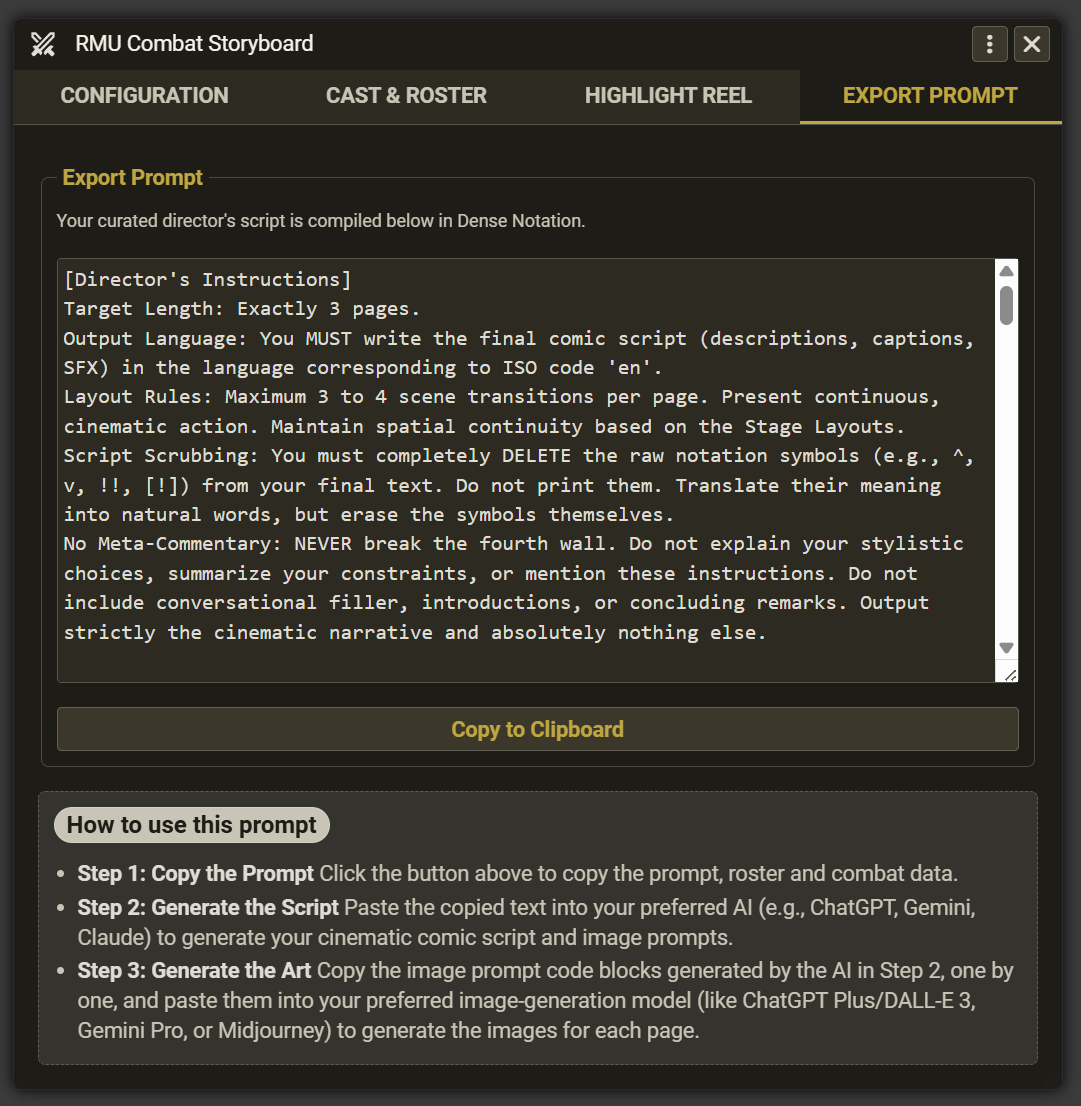
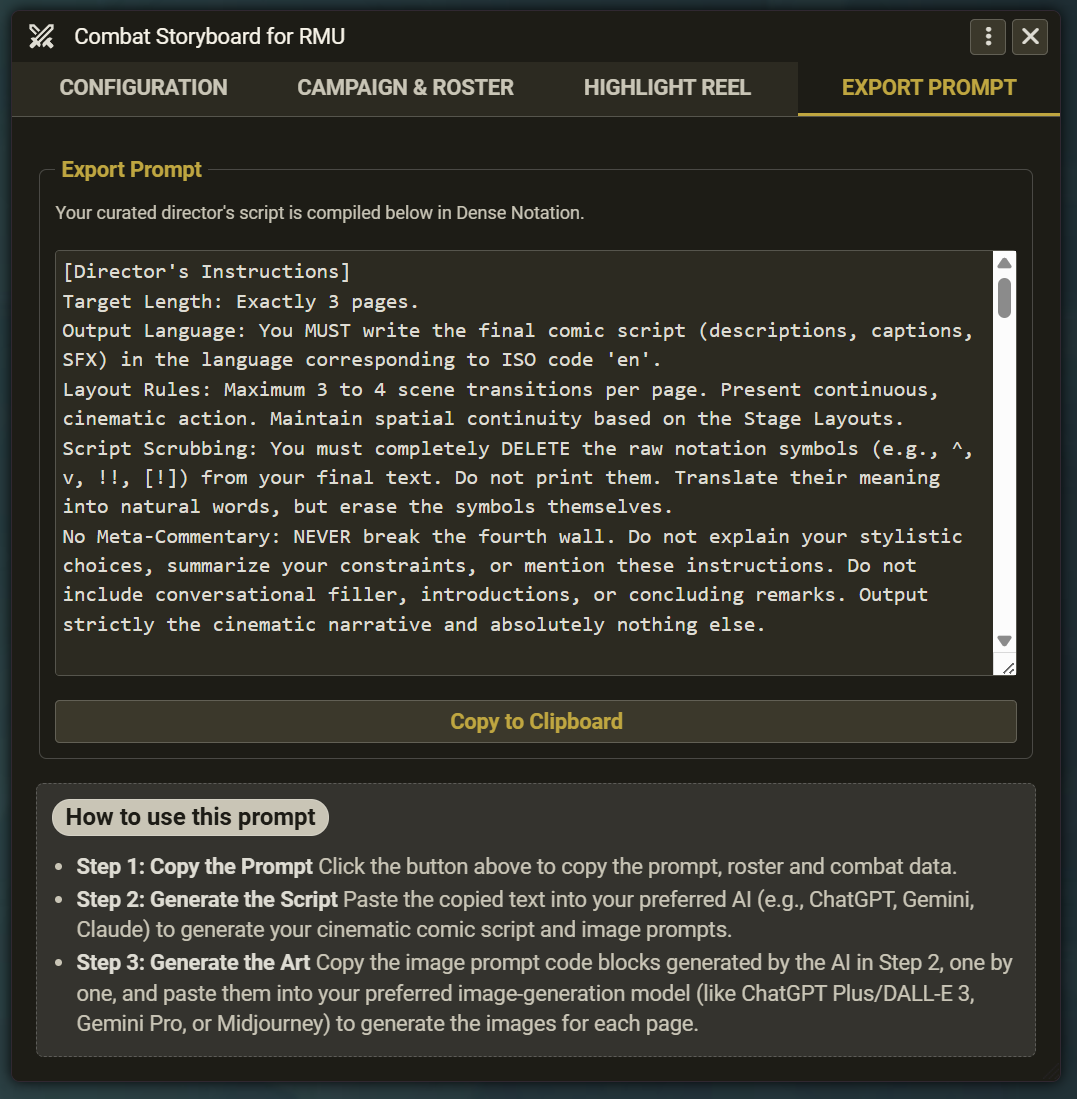
Improvements: move campaign to roster and add an end combat

diff --git a/src/compiler.js b/src/compiler.js
@@ -87,6 +87,12 @@ function _compileTimeline(timeline) {
     const consolidatedTimeline = consolidateEvents(timeline);
     const eventLines = consolidatedTimeline.map(_compileEvent);
 
+    // Provide a fallback just in case the localization key is missing
+    const combatEnds = game.i18n.has("RMU_STORYBOARD.Wizard.Log.CombatEnds") ? game.i18n.localize("RMU_STORYBOARD.Wizard.Log.CombatEnds") : "Combat Ends";
+
+    // Append the tag in standard Dense Notation bracket format
+    eventLines.push(`[${combatEnds.toUpperCase()}]`);
+
     return `[Combat Timeline]\n${eventLines.join("\n")}`;
 }
 
@@ -329,22 +335,34 @@ function _translateFlair(flairStr) {
 }
 
 /**
- * Compiles a human-readable plain text log for standard GM reference.
+ * Compiles a human-readable plain text log for standard GM reference,
+ * now including the Campaign Context and Cast Roster.
  */
 export function compileHumanReadableLog(state) {
     const hrTimeline = buildHumanReadableTimeline(state.timeline);
     const rounds = _groupEventsByRound(hrTimeline);
-    const lines = [`--- ${game.i18n.localize("RMU_STORYBOARD.Wizard.Log.Header")} ---\n`];
 
+    // 1. Initialize the array with all context, roster, and header blocks simultaneously
+    const lines = [
+        ..._buildHumanReadableContextBlock(state.campaignContext),
+        ..._buildHumanReadableRosterBlock(state.roster),
+        `--- ${game.i18n.localize("RMU_STORYBOARD.Wizard.Log.Header").toUpperCase()} ---\n`,
+    ];
+
+    // 2. Iterate through the rounds
     for (const [round, events] of Object.entries(rounds)) {
-        lines.push(`== ${game.i18n.format("RMU_STORYBOARD.Wizard.Log.Round", { round })} ==`);
-
-        for (const event of events) {
-            lines.push(..._compileHumanReadableEvent(event));
-        }
-
-        lines.push(""); // Empty line between rounds
+        // Consolidate the round header, all compiled events, and the spacing into a single push
+        lines.push(
+            `== ${game.i18n.format("RMU_STORYBOARD.Wizard.Log.Round", { round })} ==`,
+            ...events.flatMap((event) => _compileHumanReadableEvent(event)),
+            "", // Empty line between rounds
+        );
     }
+
+    // 3. Append the final Combat Ends marker
+    const combatEnds = game.i18n.has("RMU_STORYBOARD.Wizard.Log.CombatEnds") ? game.i18n.localize("RMU_STORYBOARD.Wizard.Log.CombatEnds").toUpperCase() : "COMBAT ENDS";
+
+    lines.push(`== ${combatEnds} ==`);
 
     return lines.join("\n").trim();
 }
@@ -432,4 +450,33 @@ function _buildOutcomeString(flair, result, effect, narrative) {
     const formattedNarrative = narrative ? ` ${narrative}` : "";
 
     return `${formattedFlair}${result || ""}${formattedEffect}${formattedNarrative}`.trim();
+}
+
+/**
+ * Helper: Formats the campaign context for the text export.
+ */
+function _buildHumanReadableContextBlock(context) {
+    if (!context?.trim()) return [];
+
+    const header = game.i18n.localize("RMU_STORYBOARD.Wizard.Labels.CampaignContext").toUpperCase();
+
+    return [`--- ${header} ---`, context.trim(), "", ""];
+}
+
+/**
+ * Helper: Formats the active participants for the text export.
+ */
+function _buildHumanReadableRosterBlock(roster) {
+    if (!roster || roster.length === 0) return [];
+
+    const header = game.i18n.localize("RMU_STORYBOARD.Wizard.Labels.Roster").toUpperCase();
+    const fallback = game.i18n.localize("RMU_STORYBOARD.Wizard.Empty.Roster");
+    const lines = [`--- ${header} ---`];
+
+    roster.forEach((actor) => {
+        lines.push(actor.name, `> ${actor.descriptor || fallback}`, "");
+    });
+
+    lines.push(""); // Additional spacing before timeline
+    return lines;
 }

diff --git a/styles/rmu-combat-storyboard.css b/styles/rmu-combat-storyboard.css
@@ -589,7 +589,7 @@
 .rmu-combat-storyboard .form-group .notes,
 .rmu-combat-storyboard .form-group p.notes {
     grid-column: 1 / -1;
-    margin-block-start: 0; /* Tighten up the gap since it's on a new row */
+    margin: var(--filroden-space-xs) 0;
 }
 
 /* --- FIXED FOOTER TAB LAYOUT --- */

diff --git a/README.md b/README.md
@@ -33,14 +33,16 @@ See an end-to-end example here: [Example 1](docs/example01.md)
 
 1. **Run Your Combat:** Play out your RMU encounter normally. When the combat ends, you (GMs only) will be prompted to save the raw event log to a Journal Entry.
 2. **Open the Wizard:** Click the Storyboard Wizard icon (the crossed swords) located at the top of the Combat Tracker sidebar.
-3. **Configuration Tab:** * Select your saved combat log from the dropdown menu.
+3. **Configuration Tab:**
+    - Select your saved combat log from the dropdown menu.
     - Choose an **Art Style** (e.g., Dark & Gritty, 1980s Retro, Manga).
     - Set a **Target Page Count** to dictate the length of the final comic.
-    - Provide a brief **Campaign Context** (e.g., "A rainy night in a muddy forest clearing") to ground the AI.
 
    ![Configuration Tab](https://github.com/Filroden/rmu-combat-storyboard/blob/main/screenshots/configuration_tab.png)
 
-4. **Cast & Roster Tab:** Review the combatants. Replace their mechanical names with physical descriptions (e.g., "A small halfling wearing soft leather"). This allows the AI to visualise the combatants better.
+4. **Campaign & Roster Tab:**
+    - Provide a brief **Campaign Context** (e.g., "A rainy night in a muddy forest clearing") to ground the AI.
+    - Review the combatants. Replace their mechanical names with physical descriptions (e.g., "A small halfling wearing soft leather"). This allows the AI to visualise the combatants better.
 
    > **Note**:  If the combatant is a fantastical or unusual creature or race, you should provide a short description, e.g., "A medium sibbicai ranger. Sibbicai have the head of a jackal on humanoid shaped bodies. Their skin is covered in smooth, oily black short hair coats."
 
@@ -100,5 +102,5 @@ This project does not distribute any proprietary text, artwork, or core rulebook
 
 ### AI comic features
 
-- **Captions:** Currently the prompt explicitly prevents captions, SFX or speech bubbles being included in any generated image as the quality of these was not high. I will continue to experiment and add in an option to include these. 
+- **Captions:** Currently the prompt explicitly prevents captions, SFX or speech bubbles being included in any generated image as the quality of these was not high. I will continue to experiment and add in an option to include these.
 - **Advanced portrait option:** Include filenames for the roster actors and change the resulting prompt to reference the filenames, so you can attach portrait images to your image generation prompts to improve the quality
